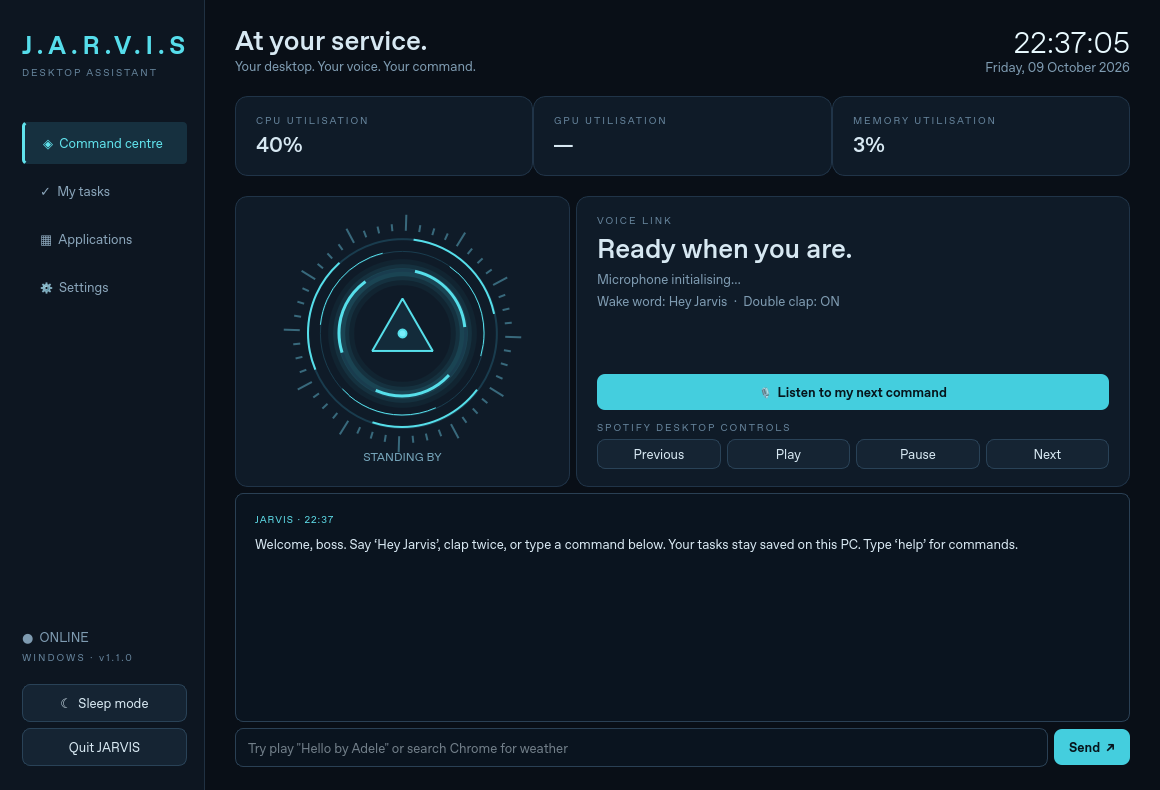
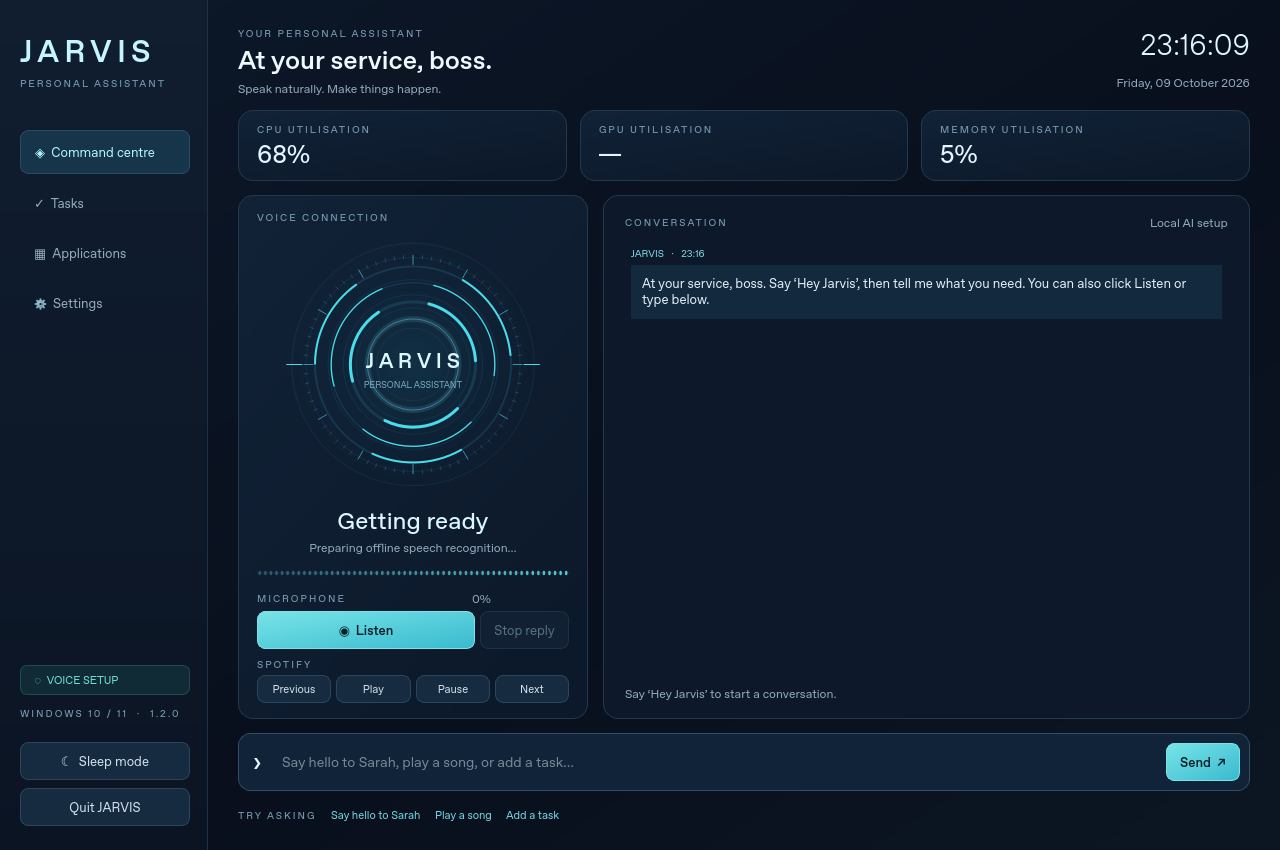
Publish JARVIS 1.2 download page

diff --git a/index.html b/index.html
@@ -1,4 +1,4 @@
 <!doctype html>
 <html lang="en"><head><meta charset="utf-8"><meta name="viewport" content="width=device-width, initial-scale=1"><title>JARVIS — Your desktop assistant</title><meta name="description" content="Download JARVIS for Windows: voice commands, double-clap activation, Spotify controls, tasks and system stats."><style>
 :root{color-scheme:dark}*{box-sizing:border-box}body{margin:0;background:#090f17;color:#d7e8f2;font:16px/1.6 system-ui,sans-serif}main{max-width:1080px;margin:auto;padding:64px 28px}header{display:flex;align-items:center;justify-content:space-between;margin-bottom:68px}.brand{color:#5be1ef;letter-spacing:5px;font-weight:750;font-size:22px}.tag{font-size:12px;color:#9bb8ca;border:1px solid #294257;border-radius:30px;padding:6px 13px}.kicker{color:#59dbea;letter-spacing:3px;font-size:12px}h1{font-size:clamp(42px,7vw,72px);line-height:1.1;margin:16px 0 20px;letter-spacing:-2px}h1 span{color:#56ddea}.intro{max-width:650px;color:#99b4c6;font-size:19px}.download{display:inline-block;margin:18px 0 7px;padding:16px 25px;background:#4ad3e2;color:#06151c;text-decoration:none;border-radius:9px;font-weight:750}.download:hover{background:#8cf0fa}.fine{color:#849eaf;font-size:13px}.preview{width:100%;margin-top:35px;border:1px solid #24445a;border-radius:14px;box-shadow:0 10px 70px #04344555}.grid{display:grid;grid-template-columns:repeat(3,1fr);gap:16px;margin-top:36px}.card{background:#0f1b28;border:1px solid #203448;border-radius:12px;padding:22px}.card h2{font-size:18px;margin:0 0 8px}.card p{margin:0;color:#91acbf;font-size:14px}.steps{margin:42px 0 26px;padding:26px;border:1px solid #203448;border-radius:12px}h2{font-size:24px}li{margin-bottom:9px}a{color:#6ce6ef}footer{margin-top:35px;color:#7191a7;font-size:13px}@media(max-width:650px){main{padding:32px 20px}header{margin-bottom:45px}.grid{grid-template-columns:1fr}.tag{font-size:10px}.brand{font-size:17px}}
-</style></head><body><main><header><div class="brand">J.A.R.V.I.S.</div><span class="tag">WINDOWS 10 / 11 · 64-BIT</span></header><p class="kicker">YOUR PERSONAL DESKTOP ASSISTANT</p><h1>At your service.<br><span>Ready when you are.</span></h1><p class="intro">Wake him with “Hey Jarvis” or two claps. Play a named Spotify song, dictate a Chrome search, launch apps, save tasks, and keep an eye on your PC.</p><a class="download" href="https://github.com/xavierpring1-svg/SAY-CHEESE-PIZZA/raw/refs/heads/main/downloads/JARVIS-Windows.zip?v=1.1.0">Download JARVIS 1.1 for Windows ↓</a><p class="fine">Portable ZIP · Includes its own Python runtime · First launch downloads the voice model.</p><img class="preview" src="dashboard.png" alt="JARVIS dashboard with an animated cyan reactor, voice controls, Spotify buttons, tasks and system statistics"><div class="grid"><section class="card"><h2>Wake &amp; talk</h2><p>Offline voice recognition, double-clap activation, a natural British male voice, and sleep mode in the Windows tray.</p></section><section class="card"><h2>Command your desktop</h2><p>Say “play Hello by Adele” or “search Chrome for weather”. Launch registered apps, save tasks, and connect optional conversational AI.</p></section><section class="card"><h2>See your system</h2><p>Local time and date, CPU and memory usage, and GPU telemetry when supported by your driver.</p></section></div><section class="steps"><h2>Get started</h2><ol><li>Download the ZIP above, then right-click it and select <strong>Extract All</strong>.</li><li>Open the extracted folder and double-click <strong>JARVIS.exe</strong>.</li><li>Let the voice model download and allow desktop microphone access in Windows settings.</li><li>Run <strong>Create Desktop Shortcut.cmd</strong> to add JARVIS to your desktop.</li><li>Open Spotify, sign in, and play one song. Try “Hey Jarvis, play Hello by Adele”. Configure voice and optional AI in JARVIS Settings.</li></ol><p class="fine">Natural British speech needs internet and sends reply text to Microsoft. An offline Windows voice option is available. Open-ended conversation requires Ollama or your own API key. SpotX compatibility and hardware behavior need checking on your PC. The app supports its implemented commands; it cannot perform every possible PC action.</p><a href="https://github.com/xavierpring1-svg/SAY-CHEESE-PIZZA#readme">Read setup and troubleshooting instructions ↗</a></section><footer>Automated logic and UI checks passed on Linux; Windows hardware and live Spotify behavior remain unverified. Independent fan-inspired project. <a href="https://github.com/xavierpring1-svg/SAY-CHEESE-PIZZA/blob/main/VALIDATION.md">Validation details</a></footer></main></body></html>
+</style></head><body><main><header><div class="brand">J.A.R.V.I.S.</div><span class="tag">WINDOWS 10 / 11 · 64-BIT</span></header><p class="kicker">YOUR PERSONAL DESKTOP ASSISTANT</p><h1>At your service.<br><span>Ready when you are.</span></h1><p class="intro">Wake him with “Hey Jarvis” or two claps. Talk naturally, greet your friends by name, control music and Chrome, and watch your PC through a redesigned dashboard.</p><a class="download" href="https://github.com/xavierpring1-svg/SAY-CHEESE-PIZZA/raw/refs/heads/main/downloads/JARVIS-Windows.zip?v=1.2.0">Download JARVIS 1.2 for Windows ↓</a><p class="fine">Portable ZIP · Includes its own Python runtime · First launch downloads voice and conversation models.</p><img class="preview" src="dashboard.png" alt="JARVIS dashboard with an animated cyan reactor, voice controls, Spotify buttons, tasks and system statistics"><div class="grid"><section class="card"><h2>Wake &amp; talk</h2><p>Offline Whisper transcription, dedicated wake detection, a natural British male voice, and a microphone that stays available while replies are prepared.</p></section><section class="card"><h2>Command your desktop</h2><p>Say “say hello to Sarah”, “play Hello by Adele” or “search Chrome for weather”. Built-in conversation runs locally after a one-time model download.</p></section><section class="card"><h2>See your system</h2><p>Local time and date, CPU and memory usage, and GPU telemetry when supported by your driver.</p></section></div><section class="steps"><h2>Get started</h2><ol><li>Download the ZIP above, then right-click it and select <strong>Extract All</strong>.</li><li>Open the extracted folder and double-click <strong>JARVIS.exe</strong>.</li><li>Let the offline voice models finish downloading and allow desktop microphone access in Windows settings.</li><li>Run <strong>Create Desktop Shortcut.cmd</strong> to add JARVIS to your desktop.</li><li>Open Spotify, sign in, and play one song. Try “Hey Jarvis, say hello to Sarah”. Wait for local conversation setup to finish for open-ended chat.</li></ol><p class="fine">Natural British speech needs internet and sends reply text to Microsoft. An offline Windows voice option is available. Built-in conversation downloads about 1.1 GB once and needs about 2 GB of free memory. No AI API key is required. SpotX compatibility and hardware behavior need checking on your PC. The app supports its implemented commands; it cannot perform every possible PC action.</p><a href="https://github.com/xavierpring1-svg/SAY-CHEESE-PIZZA#readme">Read setup and troubleshooting instructions ↗</a></section><footer>Automated logic and UI checks passed on Linux; Windows hardware and live Spotify behavior remain unverified. Independent fan-inspired project. <a href="https://github.com/xavierpring1-svg/SAY-CHEESE-PIZZA/blob/main/VALIDATION.md">Validation details</a></footer></main></body></html>
